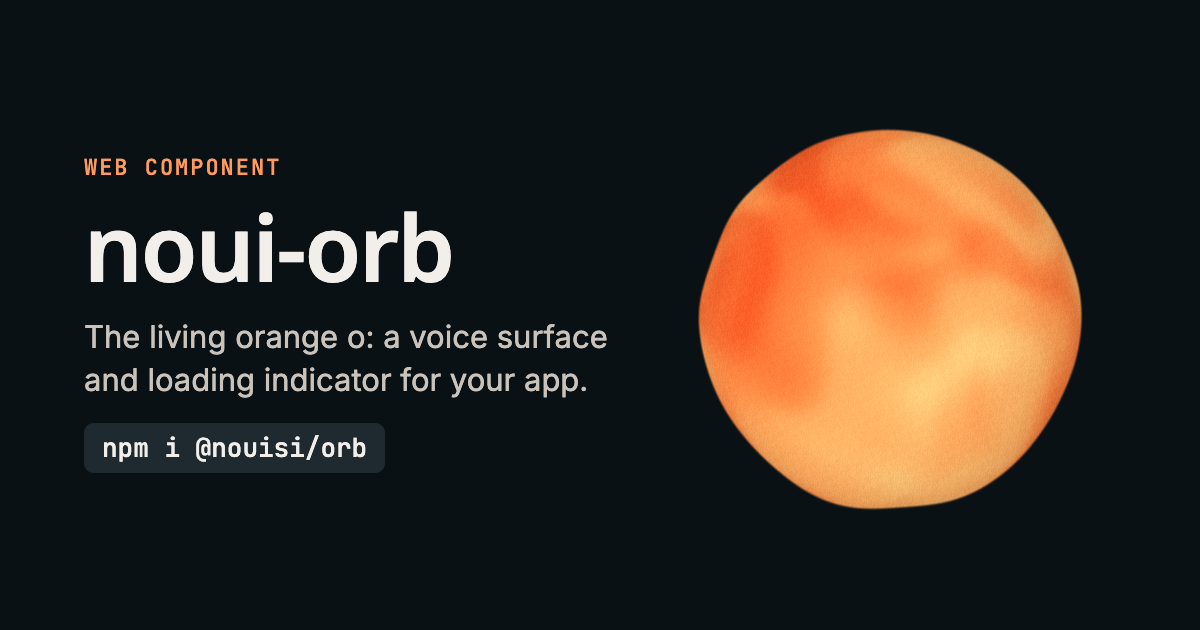
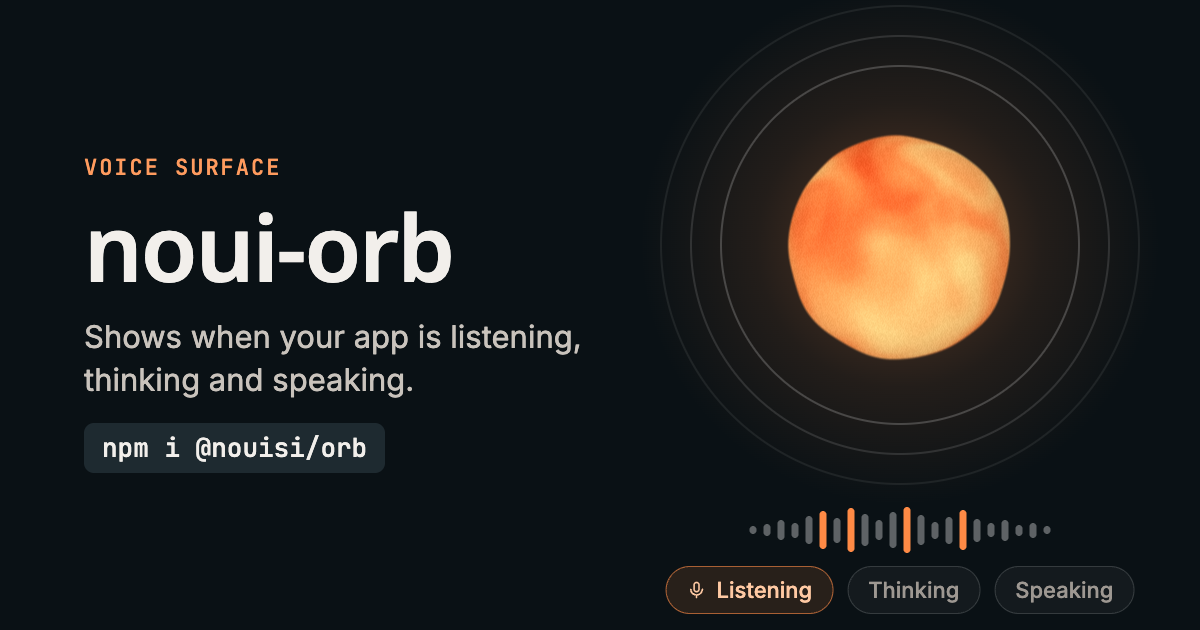
Share image: speech-focused (orb, sound rings, voice level and the three states, centred on one axis); generator supports two layouts

diff --git a/docs/OPERATIONS.md b/docs/OPERATIONS.md
@@ -318,7 +318,7 @@ GitHub `upadhyayprakash/noui-orb`, public, MIT licence (the noui name and mark a
 | `demo/` | The public demo page (`index.html`, `main.ts`, `snippets.ts`, `style.css`) and `demo/harness/`, a bare page the tests drive |
 | `pages/` | Cloudflare Pages files for the demo (`_headers`, `_redirects`, `404.html`) |
 | `demo/public/og.png` | The 1200 x 630 share image for link previews |
-| `scripts/` | `size.mjs` (size budget), `copy-pages-files.mjs` (post-build checks and copy), `record-gif.mjs` (regenerates `docs/media/orb.gif`), `make-og-image.mjs` (regenerates `demo/public/og.png`) |
+| `scripts/` | `size.mjs` (size budget), `copy-pages-files.mjs` (post-build checks and copy), `record-gif.mjs` (regenerates `docs/media/orb.gif`), `make-og-image.mjs` (regenerates `demo/public/og.png`; use `STYLE=voice`) |
 | `vite.config.ts` | Library build (outputs `dist/`) |
 | `vite.demo.config.ts` | Demo build (`base: "/lab/orb/"`, outputs `demo-dist/lab/orb/`) |
 | `wrangler.jsonc` | Cloudflare Pages settings for the demo |
@@ -512,7 +512,7 @@ Incidents marked **seen** actually happened in this project.
 
 **Add a header or a redirect.** Site: edit `public/_headers` or `public/_redirects`. Demo: `pages/_headers` or `pages/_redirects` in noui-orb. Push, then verify with `curl -sI <url>`. Headers do not apply to responses produced by Functions.
 
-**Change how a link looks when shared (LinkedIn, WhatsApp, X).** The tags are in the `<head>` of the page: `demo/index.html` for the demo, `index.html` in the site repo. The demo's image is `demo/public/og.png`; regenerate it with `npm run dev` in one terminal and `node scripts/make-og-image.mjs` in another. `npm run build:demo` fails if the tags or the image are missing. Platforms **cache** previews, so after a change refresh them: LinkedIn Post Inspector (`linkedin.com/post-inspector`, enter the URL), Facebook's Sharing Debugger (also refreshes WhatsApp in practice), and for X just post again. A page with no Open Graph tags still gets a basic card from its title and description, but no image.
+**Change how a link looks when shared (LinkedIn, WhatsApp, X).** The tags are in the `<head>` of the page: `demo/index.html` for the demo, `index.html` in the site repo. The demo's image is `demo/public/og.png`; regenerate it with `npm run dev` in one terminal and `STYLE=voice node scripts/make-og-image.mjs` in another (it prints the horizontal centres of the orb, level strip and chips and fails if they differ by more than 1 px; `STYLE=voice-left` is an alternative layout). `npm run build:demo` fails if the tags or the image are missing. Platforms **cache** previews, so after a change refresh them: LinkedIn Post Inspector (`linkedin.com/post-inspector`, enter the URL), Facebook's Sharing Debugger (also refreshes WhatsApp in practice), and for X just post again. A page with no Open Graph tags still gets a basic card from its title and description, but no image.
 
 **Release a new orb version.** See [9](#9-releasing-the-npm-package).
 
